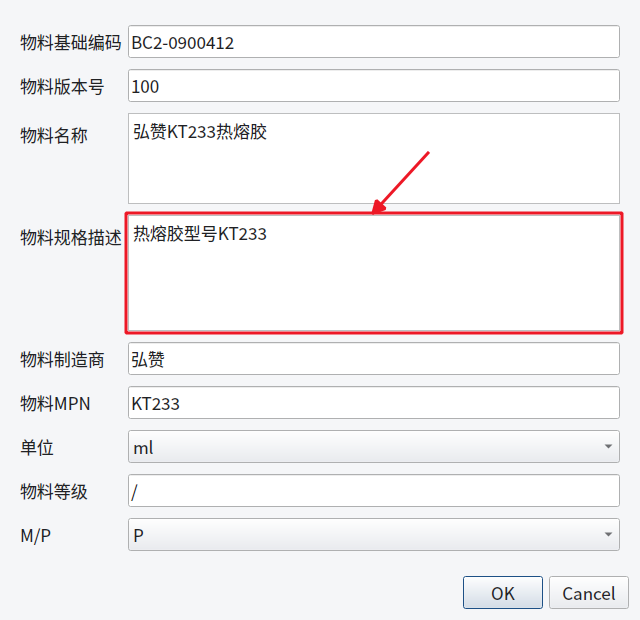
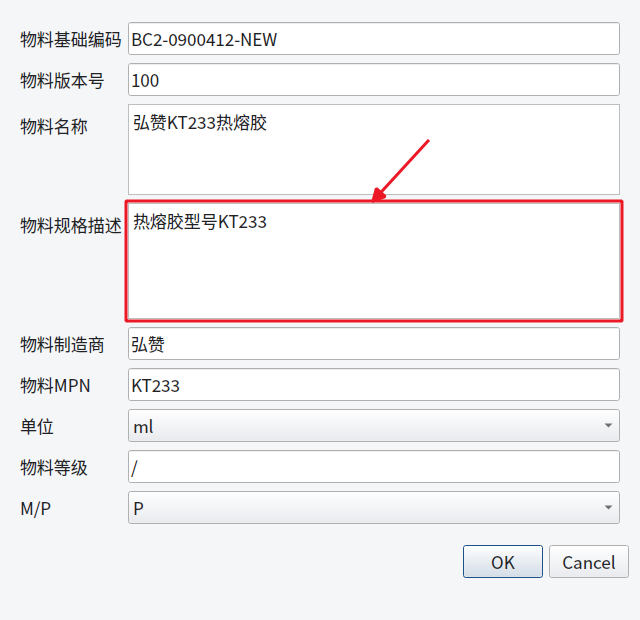
feat(material): 新建物料实时标红重复编码并提示重新选择
- 基础编码和版本号变更时按数据库唯一组合即时查重，两个字段重复时红底显示
- 新建窗口左下红字提示重复，修改为未存在组合或清空后即时恢复正常样式
- 保存前再次检查防止其他窗口抢先创建，沿用数据库唯一约束与必填校验
- 覆盖空格、清空、状态恢复和重复保存回归，同步更新新建/类似新增帮助截图及步骤
- 更新规格、记忆与审计，执行全量测试、版本升级及AppImage打包冒烟

diff --git a/tests/test_material_duplicate_feedback.py b/tests/test_material_duplicate_feedback.py
@@ -1,0 +1,35 @@
+import os,sys,tempfile,unittest
+os.environ['QT_QPA_PLATFORM']='offscreen'
+from pathlib import Path
+sys.path.insert(0,str(Path(__file__).parents[1]/'src'))
+from PyQt5.QtWidgets import QApplication,QDialog
+from PyQt5.QtCore import QEvent
+from database.database import Database
+from services.services import Services
+from ui.main_window import MaterialWindow,CreateMaterialDialog
+
+class DuplicateFeedbackTests(unittest.TestCase):
+ @classmethod
+ def setUpClass(cls):cls.app=QApplication.instance() or QApplication([])
+ def setUp(self):
+  self.tmp=tempfile.TemporaryDirectory();self.db=Database(str(Path(self.tmp.name)/'db'));self.s=Services(self.db)
+  self.s.create_material(dict(base_code='PART',version='100',name='已有',unit='pcs'))
+  self.owner=MaterialWindow(self.s);self.d=CreateMaterialDialog(self.owner);self.d.show();self.app.processEvents()
+ def tearDown(self):
+  self.d.close();self.owner.close();self.d.deleteLater();self.owner.deleteLater();self.app.sendPostedEvents(None,QEvent.DeferredDelete);self.db.close();self.tmp.cleanup()
+ def test_immediate_feedback_for_both_fields_and_clear(self):
+  d=self.d;self.assertEqual(d.duplicate_notice.text(),'')
+  d.e['base_code'].setText(' PART ');self.assertEqual(d.duplicate_notice.text(),'')
+  d.e['version'].setText('100 ')
+  self.assertIn('已经存在',d.duplicate_notice.text())
+  for key in ('base_code','version'):self.assertIn('background-color:#f8d7da',d.e[key].styleSheet())
+  d.e['version'].setText('101');self.assertEqual(d.duplicate_notice.text(),'')
+  for key in ('base_code','version'):self.assertEqual(d.e[key].styleSheet(),d._identity_styles[key])
+  d.e['version'].setText('100');self.assertTrue(d.check_duplicate_code())
+  d.e['base_code'].clear();self.assertFalse(d.check_duplicate_code());self.assertEqual(d.duplicate_notice.text(),'')
+ def test_save_rechecks_and_allows_new_identity(self):
+  d=self.d;d.e['base_code'].setText('NEW');d.e['version'].setText('100');d.e['name'].setText('新物料')
+  self.s.create_material(dict(base_code='NEW',version='100',name='其他窗口已建',unit='pcs'))
+  d.accept();self.assertNotEqual(d.result(),QDialog.Accepted);self.assertTrue(d.isVisible());self.assertTrue(d.check_duplicate_code())
+  d.e['version'].setText('101');self.assertEqual(d.duplicate_notice.text(),'');d.accept();self.assertEqual(d.result(),QDialog.Accepted)
+  self.assertEqual(self.db.conn.execute("SELECT count(*) FROM materials WHERE base_code='NEW'").fetchone()[0],2)

diff --git a/src/ui/main_window.py b/src/ui/main_window.py
@@ -74,10 +74,26 @@ class CreateMaterialDialog(MaterialDialog):
  def __init__(self,owner,data=None):
   super().__init__(owner,data=data);self.setWindowTitle('新建物料');self.setWindowModality(Qt.NonModal)
   self.service=owner.svc;self.database=owner.svc.db;self._saving=False;self._saved=False
+  self.duplicate_notice=QLabel('');self.duplicate_notice.setWordWrap(True);self.duplicate_notice.setAlignment(Qt.AlignLeft|Qt.AlignVCenter)
+  self.duplicate_notice.setStyleSheet('color:#e53935;');self.duplicate_notice.setMinimumHeight(self.fontMetrics().height());self.layout().addWidget(self.duplicate_notice)
+  self._identity_styles={key:self.e[key].styleSheet() for key in ('base_code','version')}
+  for key in ('base_code','version'):self.e[key].textChanged.connect(self.check_duplicate_code)
+  self.check_duplicate_code()
+ def check_duplicate_code(self,*args):
+  duplicate=False
+  if self.service.db is self.database and getattr(self.parentWidget(),'svc',None) is self.service:
+   code=self.e['base_code'].text().strip();version=self.e['version'].text().strip()
+   if code and version:
+    duplicate=self.database.conn.execute('SELECT 1 FROM materials WHERE base_code=? AND version=? LIMIT 1',(code,version)).fetchone() is not None
+  for key in ('base_code','version'):
+   self.e[key].setStyleSheet('QLineEdit {background-color:#f8d7da;color:#4a1111;}' if duplicate else self._identity_styles[key])
+  self.duplicate_notice.setText('当前物料编码已经存在，请重新选择新的物料编码' if duplicate else '')
+  return duplicate
  def accept(self):
   if self._saving or self._saved:return
   if self.service.db is not self.database:
    QMessageBox.warning(self,'数据库已切换','此窗口属于之前的数据库，请关闭后重新新建物料。');return
+  if self.check_duplicate_code():self.e['base_code'].setFocus();return
   self._saving=True
   try:
    self.service.create_material(self.data())

diff --git a/tools/help_action_screenshots.py b/tools/help_action_screenshots.py
@@ -60,10 +60,16 @@ def generate(out,main,materials,bom,svc):
     f=file_dialog('创建新项目数据库',True,'新项目.db');snap('database_name',f,f.findChild(QLineEdit,'fileNameEdit'));snap('database_save',f,save_button(f));f.hide()
     bar('library_open',main,'物料库');bar('material_new',materials,'新建物料')
     data=dict(svc.db.conn.execute('SELECT * FROM materials ORDER BY id LIMIT 1').fetchone())
-    material=dialog(CreateMaterialDialog(main,data=data))
+    new_code=data['base_code']+'-NEW'
+    while svc.db.conn.execute('SELECT 1 FROM materials WHERE base_code=? AND version=?',(new_code,data['version'])).fetchone():new_code+='-NEW'
+    material=dialog(CreateMaterialDialog(main,data={**data,'base_code':new_code}))
     for field in ('base_code','version','name','description','grade','manufacturer','mpn'):
         snap('material_'+field,material,material.e[field])
-    snap('material_unit',material,material.unit);snap('material_mp_flag',material,material.mp_flag);ok('material_ok',material)
+    snap('material_unit',material,material.unit);snap('material_mp_flag',material,material.mp_flag)
+    material.e['base_code'].setText(data['base_code'])
+    if not material.check_duplicate_code():raise RuntimeError('重复物料截图未触发查重')
+    snap('material_duplicate',material,material.duplicate_notice)
+    material.e['base_code'].setText(new_code);ok('material_ok',material)
     bar('import_open',materials,'导入物料')
     from openpyxl import Workbook
     book=Workbook();book.active.title='物料清单';book.active.append(MATERIAL_IMPORT_HEADERS);book.create_sheet('填写说明');book.save(out/'物料清单.xlsx');book.close()

diff --git a/src/ui/help_guides.py b/src/ui/help_guides.py
@@ -33,6 +33,7 @@ GUIDES=[
    ('manufacturer','填写制造商（可选）','在单行输入框填写制造商名称，避免把采购数量填入此栏。可在查找窗口按此字段查找。'),
    ('mpn','填写MPN（可选）','在单行输入框填写制造商提供的物料型号或编号，便于采购识别；没有资料可留空。'),
    ('mp_flag','选择M/P','在M/P下拉框选择M或P，按团队对制造/采购的约定设置。此字段不是自由文本。')]],
+  step('material_duplicate','检查编码重复提示','基础编码和版本号填写后会立即查重，无需点击保存。组合已存在时两个输入框底色变红，窗口左下角显示红色提示“当前物料编码已经存在，请重新选择新的物料编码”。修改任一字段后即时重新检查；选择未存在的编码组合后自动恢复正常。保存时还会再次校验，避免其他窗口刚创建相同编码。'),
   step('material_ok','点击“OK/确定”保存物料','系统校验输入，成功后物料清单自动更新。若提示编码重复或必填项缺失，保留窗口并修正对应字段。取消会放弃此次填写。')]),
  dict(title='物料：相似新增物料',before='在物料库选择作为参考的物料。该操作创建新物料资料，不是复制其BOM结构，也不会修改参考物料。',steps=[
   step('similar_menu','右键选择“类似新增物料”','右键参考物料行，在菜单点击类似新增物料。新建窗口预填名称、规格、单位、等级、制造商、MPN和M/P，编码与版本留空。'),

diff --git a/tests/test_nonmodal_material_creation.py b/tests/test_nonmodal_material_creation.py
@@ -33,7 +33,9 @@ class NonmodalMaterialCreationTests(unittest.TestCase):
   dialog.accept();self.assertEqual(len([m for m in self.s.materials() if m['base_code']=='NEW']),1)
  def test_failure_preserves_input_and_cancel_does_not_insert(self):
   dialog=self.main.new_material();self.fill(dialog,'R');dialog.e['version'].setText('1')
-  with patch.object(QMessageBox,'warning') as warning:dialog.accept();warning.assert_called_once()
+  with patch.object(QMessageBox,'warning') as warning:dialog.accept();warning.assert_not_called()
+  self.assertIn('当前物料编码已经存在',dialog.duplicate_notice.text())
+  self.assertEqual(len([m for m in self.s.materials() if m['base_code']=='R']),1)
   self.assertTrue(dialog.isVisible());self.assertEqual(dialog.e['name'].text(),'New material')
   dialog.e['base_code'].setText('FIXED');dialog.accept();self.assertTrue(any(m['base_code']=='FIXED' for m in self.s.materials()))
   other=self.main.new_material();self.fill(other,'CANCEL');other.reject();self.assertFalse(any(m['base_code']=='CANCEL' for m in self.s.materials()))
